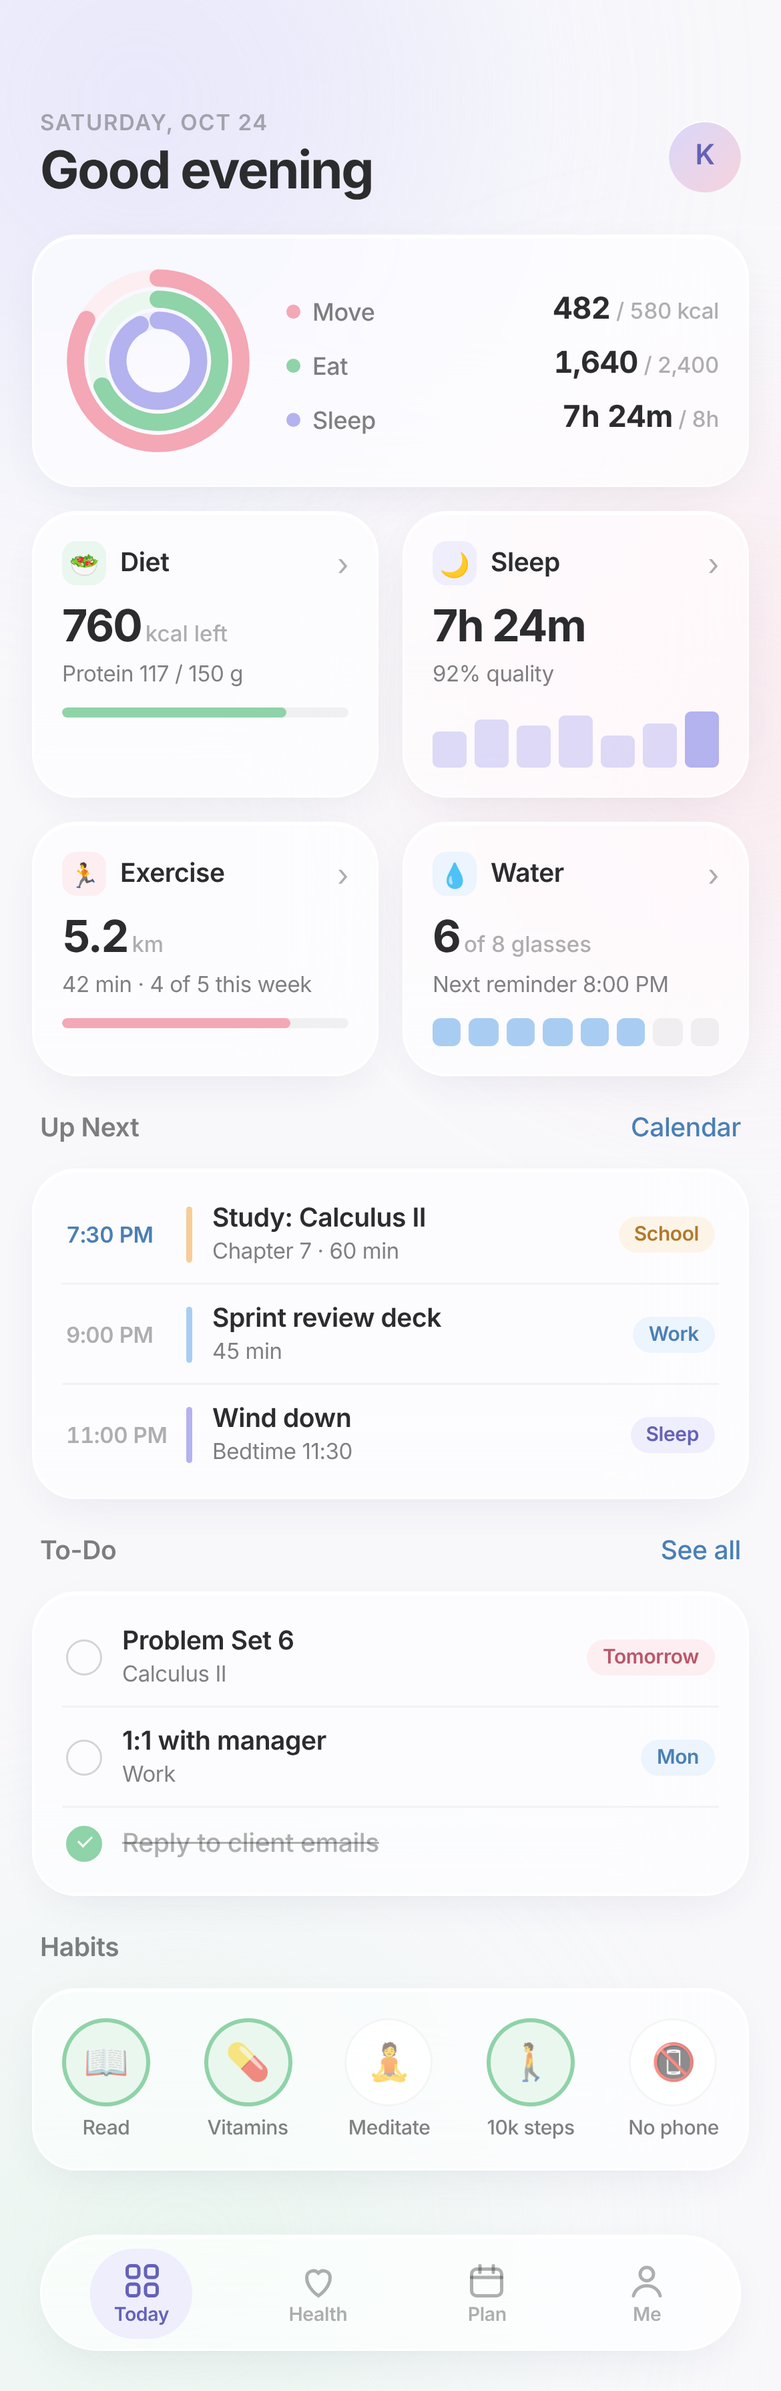
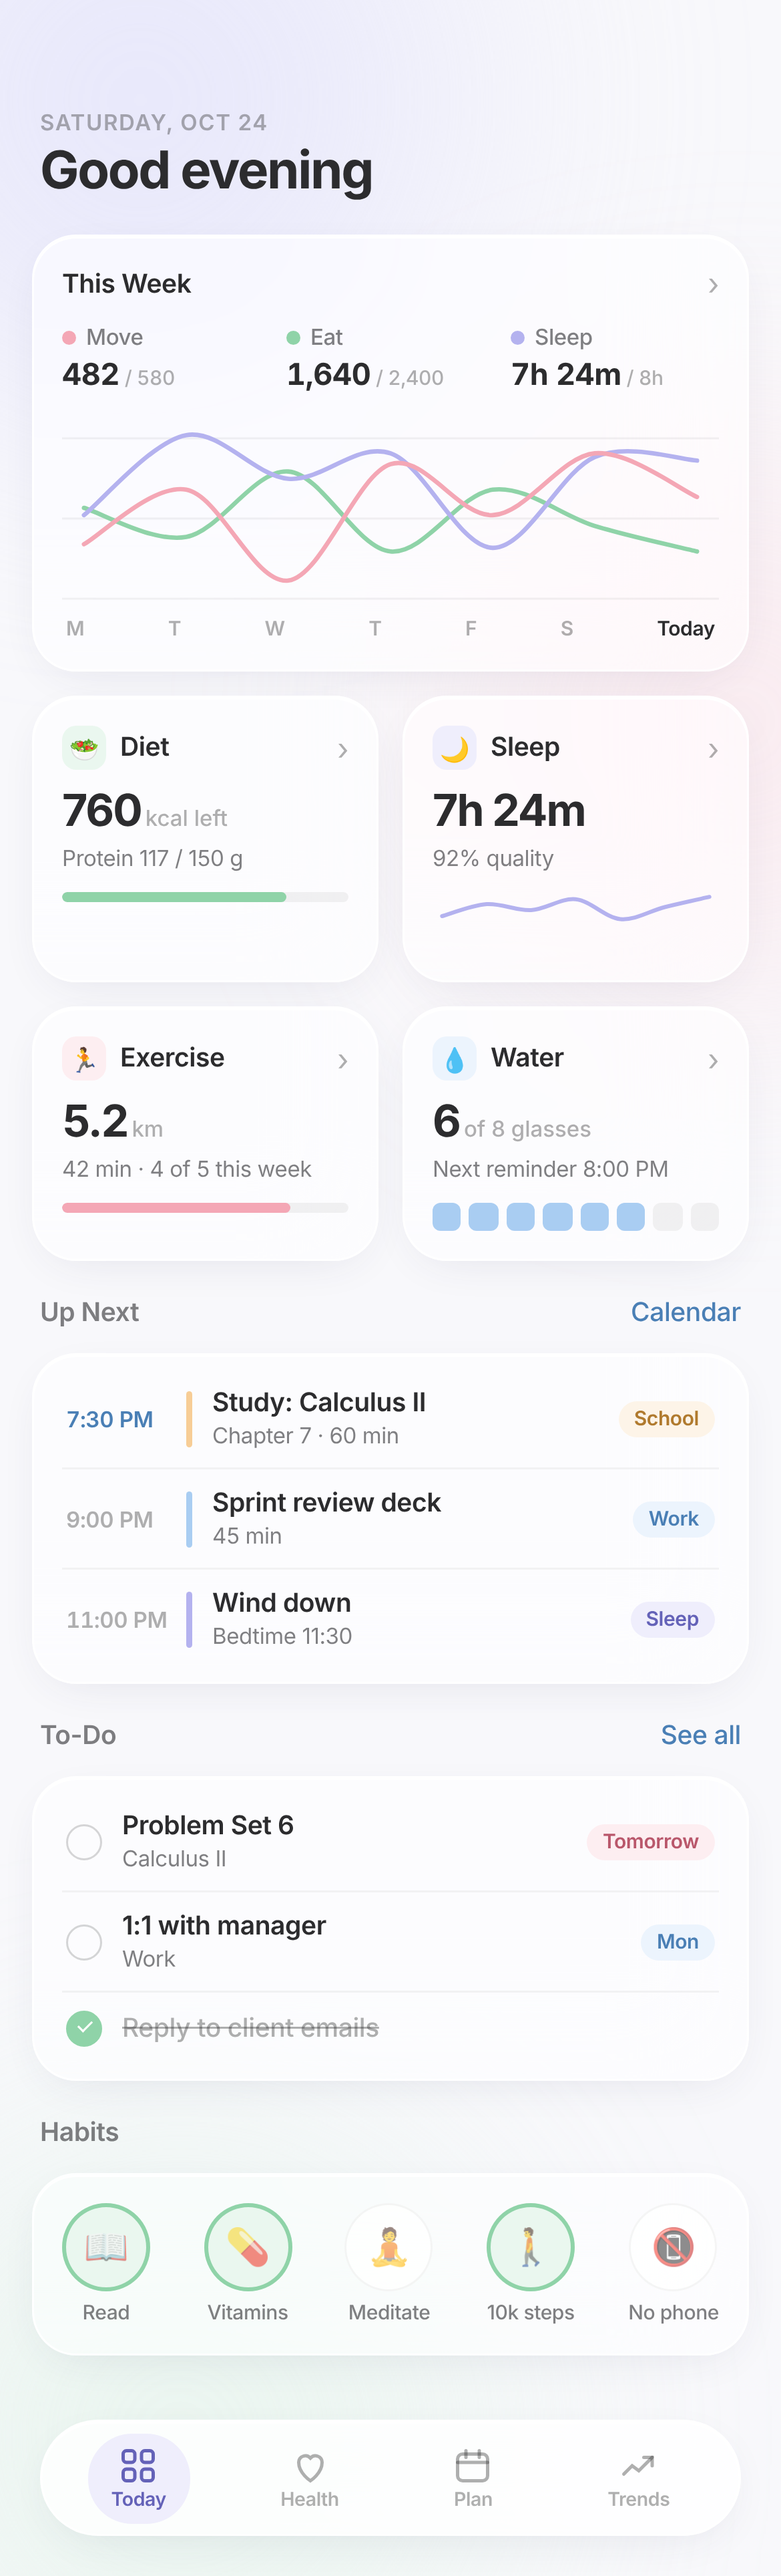
Mockup: replace rings with weekly line chart, drop account/profile UI
Claude-Session: https://claude.ai/code/session_01BpV98GxmKzj1nV1fbHxcg5

diff --git a/design/mockup.html b/design/mockup.html
@@ -61,15 +61,19 @@
   .section-label { font-size: 13px; font-weight: 600; color: var(--text-2); padding: 6px 4px 0; display: flex; justify-content: space-between; }
   .section-label a { color: var(--work-ink); font-weight: 500; text-decoration: none; }
 
-  /* Rings summary */
-  .summary { display: flex; align-items: center; gap: 16px; }
-  .rings { width: 96px; height: 96px; flex: none; }
-  .stats { flex: 1; display: flex; flex-direction: column; gap: 8px; }
-  .stat { display: flex; align-items: baseline; justify-content: space-between; }
-  .stat .l { display: flex; align-items: center; gap: 6px; font-size: 12px; color: var(--text-2); font-weight: 500; }
-  .stat .v { font-size: 15px; font-weight: 650; font-variant-numeric: tabular-nums; }
-  .stat .v span { font-size: 11px; color: var(--text-3); font-weight: 500; }
+  /* Weekly line chart */
+  .stats { display: grid; grid-template-columns: repeat(3, 1fr); gap: 8px; }
+  .stat .l { display: flex; align-items: center; gap: 5px; font-size: 11px; color: var(--text-2); font-weight: 500; }
+  .stat .v { font-size: 15px; font-weight: 650; font-variant-numeric: tabular-nums; margin-top: 2px; }
+  .stat .v span { font-size: 10px; color: var(--text-3); font-weight: 500; }
   .dot { width: 7px; height: 7px; border-radius: 50%; }
+  .chart { width: 100%; height: 96px; margin-top: 12px; display: block; overflow: visible; }
+  .chart .grid-line { stroke: rgba(0,0,0,.05); stroke-width: 1; }
+  .chart line, .chart path, .spark path { vector-effect: non-scaling-stroke; }
+  .chart .ln { fill: none; stroke-width: 2.2; stroke-linecap: round; stroke-linejoin: round; }
+  .chart-days { display: flex; justify-content: space-between; padding: 4px 2px 0; font-size: 10px; font-weight: 600; color: var(--text-3); }
+  .chart-days span:last-child { color: var(--text); }
+  .spark { width: 100%; height: 30px; margin-top: 10px; display: block; overflow: visible; }
 
   /* Widget grid */
   .grid { display: grid; grid-template-columns: 1fr 1fr; gap: 12px; }
@@ -110,7 +114,7 @@
   .habit.on .c { box-shadow: inset 0 0 0 2px var(--diet); background: var(--diet-bg); }
 
   /* Tab bar */
-  .tabbar { position: fixed; left: 50%; transform: translateX(-50%); bottom: 20px; width: calc(100% - 40px); max-width: 390px; height: 58px; border-radius: 29px; display: flex; justify-content: space-around; align-items: center; padding: 0 6px; z-index: 10; background: rgba(255,255,255,.7); }
+  .tabbar { position: fixed; left: 50%; transform: translateX(-50%); bottom: 20px; width: calc(100% - 40px); max-width: 390px; height: 58px; border-radius: 29px; display: flex; justify-content: space-around; align-items: center; padding: 0 6px; z-index: 10; background: rgba(255,255,255,.86); }
   .tab { display: flex; flex-direction: column; align-items: center; gap: 2px; font-size: 9.5px; font-weight: 600; color: var(--text-3); padding: 6px 12px; border-radius: 22px; }
   .tab svg { width: 20px; height: 20px; }
   .tab.active { color: var(--sleep-ink); background: var(--sleep-bg); }
@@ -126,28 +130,25 @@
       <div class="date">Saturday, Oct 24</div>
       <h1>Good evening</h1>
     </div>
-    <div class="avatar">K</div>
   </header>
 
   <!-- Summary -->
   <section class="card glass">
-    <div class="summary">
-      <svg class="rings" viewBox="0 0 100 100">
-        <g transform="rotate(-90 50 50)" fill="none" stroke-linecap="round" stroke-width="9">
-          <circle cx="50" cy="50" r="43" stroke="var(--move-bg)"/>
-          <circle cx="50" cy="50" r="43" stroke="var(--move)" stroke-dasharray="270" stroke-dashoffset="45"/>
-          <circle cx="50" cy="50" r="32" stroke="var(--diet-bg)"/>
-          <circle cx="50" cy="50" r="32" stroke="var(--diet)" stroke-dasharray="201" stroke-dashoffset="64"/>
-          <circle cx="50" cy="50" r="21" stroke="var(--sleep-bg)"/>
-          <circle cx="50" cy="50" r="21" stroke="var(--sleep)" stroke-dasharray="132" stroke-dashoffset="10"/>
-        </g>
-      </svg>
-      <div class="stats">
-        <div class="stat"><div class="l"><span class="dot" style="background:var(--move)"></span>Move</div><div class="v">482<span> / 580 kcal</span></div></div>
-        <div class="stat"><div class="l"><span class="dot" style="background:var(--diet)"></span>Eat</div><div class="v">1,640<span> / 2,400</span></div></div>
-        <div class="stat"><div class="l"><span class="dot" style="background:var(--sleep)"></span>Sleep</div><div class="v">7h 24m<span> / 8h</span></div></div>
-      </div>
+    <div class="head"><div class="title">This Week</div><div class="chev">›</div></div>
+    <div class="stats">
+      <div class="stat"><div class="l"><span class="dot" style="background:var(--move)"></span>Move</div><div class="v">482<span> / 580</span></div></div>
+      <div class="stat"><div class="l"><span class="dot" style="background:var(--diet)"></span>Eat</div><div class="v">1,640<span> / 2,400</span></div></div>
+      <div class="stat"><div class="l"><span class="dot" style="background:var(--sleep)"></span>Sleep</div><div class="v">7h 24m<span> / 8h</span></div></div>
     </div>
+    <svg class="chart" viewBox="0 0 300 90" preserveAspectRatio="none">
+      <line class="grid-line" x1="0" x2="300" y1="10" y2="10"/>
+      <line class="grid-line" x1="0" x2="300" y1="47.5" y2="47.5"/>
+      <line class="grid-line" x1="0" x2="300" y1="85" y2="85"/>
+      <polyline class="ln" stroke="var(--diet)" points="10,42.5 56.7,56.1 103.3,25.5 150,62.9 196.7,34 243.3,51 290,62.9"/>
+      <polyline class="ln" stroke="var(--sleep)" points="10,45.9 56.7,8.5 103.3,28.9 150,17 196.7,61.2 243.3,18.7 290,20.4"/>
+      <polyline class="ln" stroke="var(--move)" points="10,59.5 56.7,34 103.3,76.5 150,22.1 196.7,45.9 243.3,17 290,37.4"/>
+    </svg>
+    <div class="chart-days"><span>M</span><span>T</span><span>W</span><span>T</span><span>F</span><span>S</span><span>Today</span></div>
   </section>
 
   <!-- Widgets -->
@@ -162,7 +163,7 @@
       <div class="head"><div class="title"><div class="ico" style="background:var(--sleep-bg)">🌙</div>Sleep</div><div class="chev">›</div></div>
       <div class="big">7h 24m</div>
       <div class="sub">92% quality</div>
-      <div class="bars"><i style="height:60%"></i><i style="height:80%"></i><i style="height:70%"></i><i style="height:88%"></i><i style="height:55%"></i><i style="height:75%"></i><i class="t" style="height:92%"></i></div>
+      <svg class="spark" viewBox="0 0 120 30" preserveAspectRatio="none"><polyline fill="none" stroke="var(--sleep)" stroke-width="2" stroke-linecap="round" stroke-linejoin="round" points="4,12 22.7,6 41.3,9 60,3.6 78.7,13.5 97.3,7.5 116,2.4"/></svg>
     </section>
     <section class="card glass w">
       <div class="head"><div class="title"><div class="ico" style="background:var(--move-bg)">🏃</div>Exercise</div><div class="chev">›</div></div>
@@ -216,7 +217,24 @@
   <div class="tab active"><svg viewBox="0 0 24 24" fill="none" stroke="currentColor" stroke-width="2" stroke-linecap="round"><rect x="3" y="3" width="7" height="7" rx="2"/><rect x="14" y="3" width="7" height="7" rx="2"/><rect x="3" y="14" width="7" height="7" rx="2"/><rect x="14" y="14" width="7" height="7" rx="2"/></svg>Today</div>
   <div class="tab"><svg viewBox="0 0 24 24" fill="none" stroke="currentColor" stroke-width="2" stroke-linecap="round"><path d="M12 21s-7-4.5-7-11a4 4 0 0 1 7-2.6A4 4 0 0 1 19 10c0 6.5-7 11-7 11z"/></svg>Health</div>
   <div class="tab"><svg viewBox="0 0 24 24" fill="none" stroke="currentColor" stroke-width="2" stroke-linecap="round"><rect x="3" y="5" width="18" height="16" rx="3"/><path d="M3 10h18M8 3v4M16 3v4"/></svg>Plan</div>
-  <div class="tab"><svg viewBox="0 0 24 24" fill="none" stroke="currentColor" stroke-width="2" stroke-linecap="round"><circle cx="12" cy="8" r="4"/><path d="M4 21c1-4 4.5-6 8-6s7 2 8 6"/></svg>Me</div>
+  <div class="tab"><svg viewBox="0 0 24 24" fill="none" stroke="currentColor" stroke-width="2" stroke-linecap="round"><path d="M3 17l5-5 4 3 8-8"/><path d="M15 7h5v5"/></svg>Trends</div>
 </nav>
+<script>
+// Smooth each chart polyline into a curved path (Catmull-Rom) and mark today's point.
+document.querySelectorAll('polyline.ln, .spark polyline').forEach(pl => {
+  const pts = pl.getAttribute('points').trim().split(/\s+/).map(p => p.split(',').map(Number));
+  let d = `M${pts[0]}`;
+  for (let i = 0; i < pts.length - 1; i++) {
+    const [p0, p1, p2, p3] = [pts[i - 1] || pts[i], pts[i], pts[i + 1], pts[i + 2] || pts[i + 1]];
+    const c1 = [p1[0] + (p2[0] - p0[0]) / 6, p1[1] + (p2[1] - p0[1]) / 6];
+    const c2 = [p2[0] - (p3[0] - p1[0]) / 6, p2[1] - (p3[1] - p1[1]) / 6];
+    d += ` C${c1} ${c2} ${p2}`;
+  }
+  const path = document.createElementNS('http://www.w3.org/2000/svg', 'path');
+  for (const a of pl.attributes) if (a.name !== 'points') path.setAttribute(a.name, a.value);
+  path.setAttribute('d', d);
+  pl.replaceWith(path);
+});
+</script>
 </body>
 </html>
